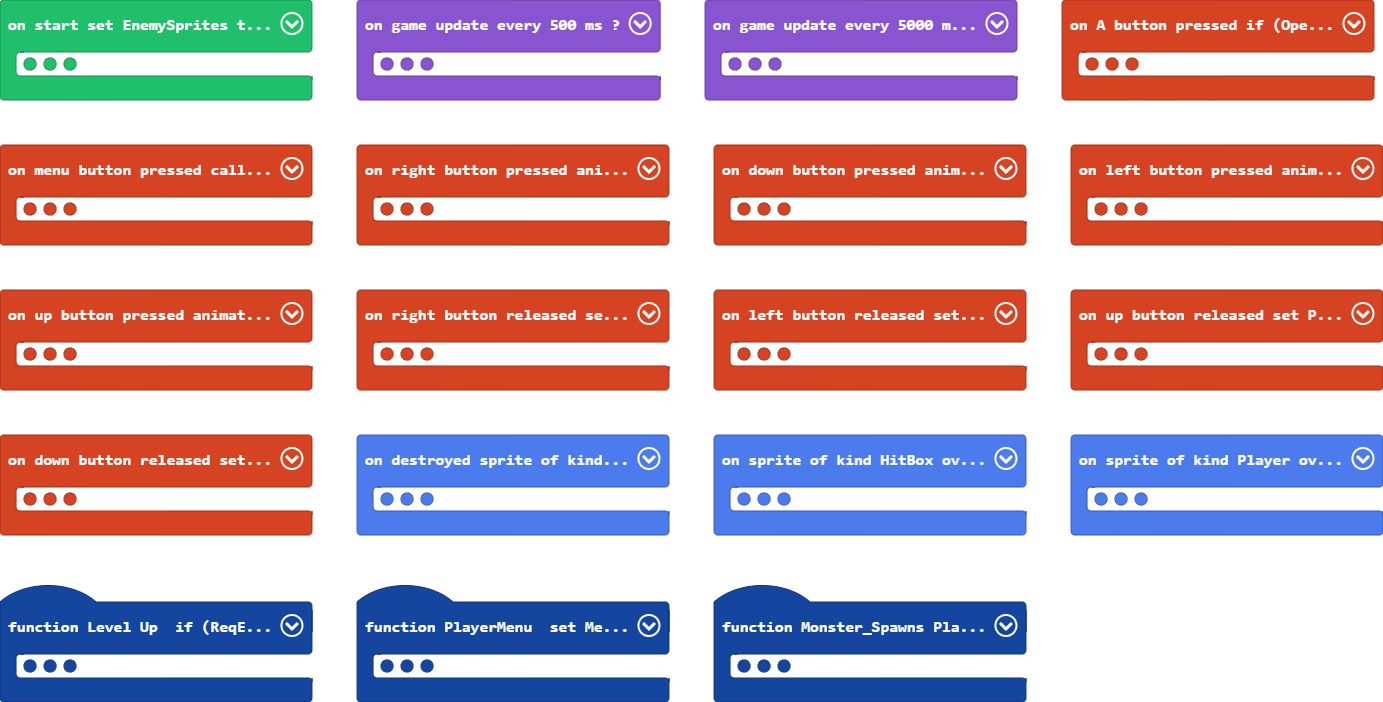
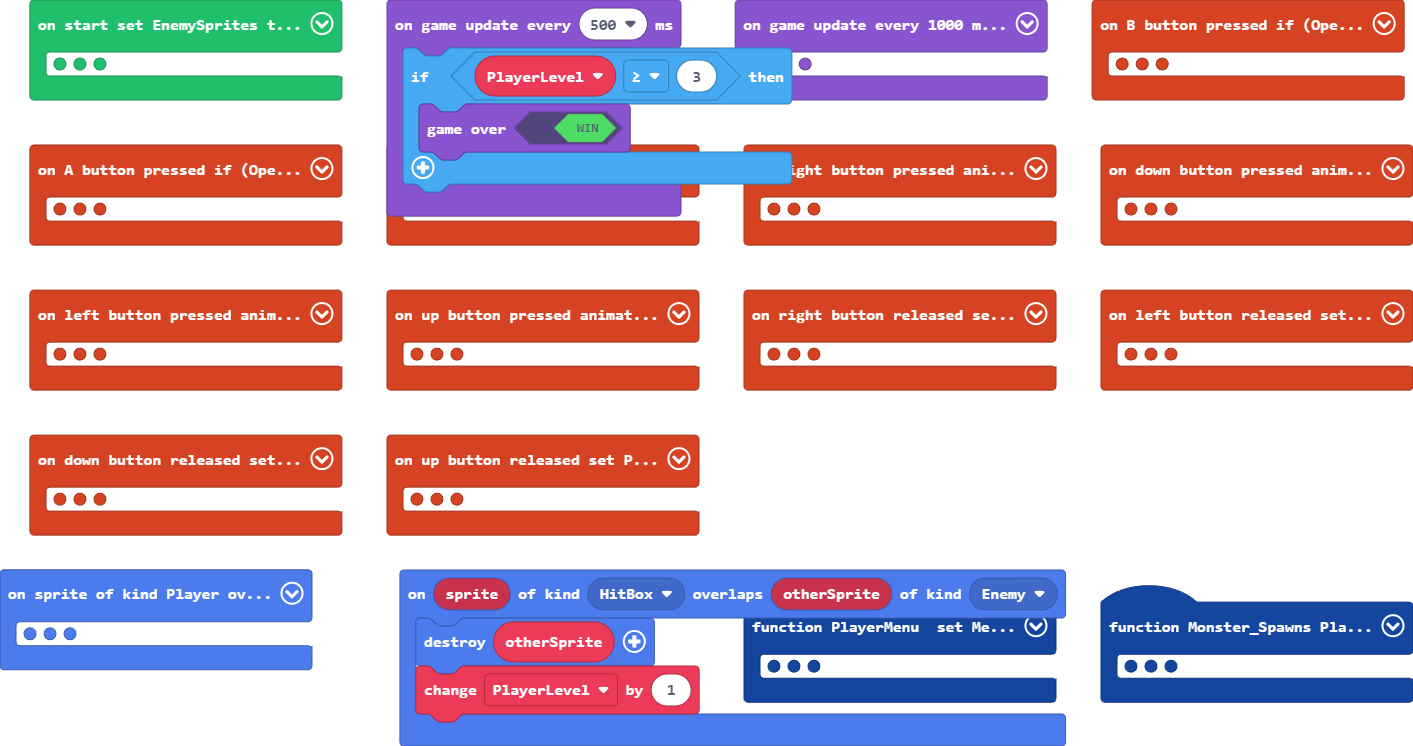
Update main.blocks, main.ts, tilemap.g.jres, tilemap.g.ts

diff --git a/main.ts b/main.ts
@@ -253,13 +253,6 @@ controller.up.onEvent(ControllerButtonEvent.Released, function () {
         . . . . . f f . . f f . . . . . 
         `)
 })
-sprites.onOverlap(SpriteKind.HitBox, SpriteKind.Enemy, function (sprite, otherSprite) {
-    sprites.destroy(otherSprite)
-    Level_Up()
-})
-sprites.onDestroyed(SpriteKind.Enemy, function (sprite) {
-    Exp += 1
-})
 controller.left.onEvent(ControllerButtonEvent.Released, function () {
     PlayerSprite.setImage(img`
         . . . . f f f f f f . . . . . . 
@@ -376,14 +369,10 @@ controller.left.onEvent(ControllerButtonEvent.Pressed, function () {
     false
     )
 })
-function Level_Up () {
-    if (ReqExp <= Exp) {
-        Exp = 0
-        ReqExp = ReqExp * 2
-        PlayerLevel += 1
-        PlayerHP.value = 103
-    }
-}
+sprites.onOverlap(SpriteKind.HitBox, SpriteKind.Enemy, function (sprite, otherSprite) {
+    sprites.destroy(otherSprite)
+    PlayerLevel += 1
+})
 controller.right.onEvent(ControllerButtonEvent.Pressed, function () {
     animation.runImageAnimation(
     PlayerSprite,
@@ -477,25 +466,25 @@ controller.right.onEvent(ControllerButtonEvent.Pressed, function () {
     false
     )
 })
+controller.B.onEvent(ControllerButtonEvent.Pressed, function () {
+    if (OpenedMenu == false) {
+        PlayerLevel += 1
+    }
+})
 // Source Code provided by teacher
 function Monster_Spawns (PlayerLevel: number) {
+    PlayerLevel = PlayerLevel
     SpawnLocation = tiles.getTilesByType(assets.tile`GrassFloor`)
-    if (PlayerLevel / 30 >= 1) {
-        for (let index = 0; index < PlayerLevel * 2; index++) {
-            Enemies = EnemySprites._pickRandom()
-            tiles.placeOnTile(Enemies, SpawnLocation.removeAt(randint(0, SpawnLocation.length - 1)))
-        }
-    } else if (PlayerLevel <= 3) {
+    if (PlayerLevel <= 2) {
         for (let index = 0; index < 3; index++) {
             Enemies = EnemySprites._pickRandom()
             tiles.placeOnTile(Enemies, SpawnLocation.removeAt(randint(0, SpawnLocation.length - 1)))
         }
     } else {
-    	
-    }
-    for (let index = 0; index < PlayerLevel; index++) {
-        Enemies = EnemySprites._pickRandom()
-        tiles.placeOnTile(Enemies, SpawnLocation.removeAt(randint(0, SpawnLocation.length - 1)))
+        for (let index = 0; index < PlayerLevel * 2; index++) {
+            Enemies = EnemySprites._pickRandom()
+            tiles.placeOnTile(Enemies, SpawnLocation.removeAt(randint(0, SpawnLocation.length - 1)))
+        }
     }
 }
 let Enemies: Sprite = null
@@ -510,7 +499,8 @@ let PlayerLevel = 0
 let ReqExp = 0
 let Exp = 0
 let EnemySprites: Sprite[] = []
-EnemySprites = [sprites.create(img`
+EnemySprites = [
+sprites.create(img`
     ........................
     ........................
     ........................
@@ -535,7 +525,8 @@ EnemySprites = [sprites.create(img`
     ........................
     ........................
     ........................
-    `, SpriteKind.Enemy), sprites.create(img`
+    `, SpriteKind.Enemy),
+sprites.create(img`
     . . f f f . . . . . . . . . . . 
     f f f c c . . . . . . . . f f f 
     f f c c . . c c . . . f c b b c 
@@ -552,7 +543,8 @@ EnemySprites = [sprites.create(img`
     . . . f f f f f f f . . . . . . 
     . . . . . . . . . . . . . . . . 
     . . . . . . . . . . . . . . . . 
-    `, SpriteKind.Enemy), sprites.create(img`
+    `, SpriteKind.Enemy),
+sprites.create(img`
     . . . . c c c c c c . . . . . . 
     . . . c 6 7 7 7 7 6 c . . . . . 
     . . c 7 7 7 7 7 7 7 7 c . . . . 
@@ -569,7 +561,71 @@ EnemySprites = [sprites.create(img`
     f 6 1 1 1 1 1 6 6 6 6 6 c f . . 
     . f 6 1 1 1 1 1 1 6 6 6 f . . . 
     . . c c c c c c c c c f . . . . 
-    `, SpriteKind.Enemy)]
+    `, SpriteKind.Enemy),
+sprites.create(img`
+    . . . . c c c c c c . . . . . . 
+    . . . c 6 7 7 7 7 6 c . . . . . 
+    . . c 7 7 7 7 7 7 7 7 c . . . . 
+    . c 6 7 7 7 7 7 7 7 7 6 c . . . 
+    . c 7 c 6 6 6 6 c 7 7 7 c . . . 
+    . f 7 6 f 6 6 f 6 7 7 7 f . . . 
+    . f 7 7 7 7 7 7 7 7 7 7 f . . . 
+    . . f 7 7 7 7 6 c 7 7 6 f c . . 
+    . . . f c c c c 7 7 6 f 7 7 c . 
+    . . c 7 2 7 7 7 6 c f 7 7 7 7 c 
+    . c 7 7 2 7 7 c f c 6 7 7 6 c c 
+    c 1 1 1 1 7 6 f c c 6 6 6 c . . 
+    f 1 1 1 1 1 6 6 c 6 6 6 6 f . . 
+    f 6 1 1 1 1 1 6 6 6 6 6 c f . . 
+    . f 6 1 1 1 1 1 1 6 6 6 f . . . 
+    . . c c c c c c c c c f . . . . 
+    `, SpriteKind.Enemy),
+sprites.create(img`
+    . . f f f . . . . . . . . . . . 
+    f f f c c . . . . . . . . f f f 
+    f f c c . . c c . . . f c b b c 
+    f f c 3 c c 3 c c f f b b b c . 
+    f f b 3 b c 3 b c f b b c c c . 
+    . c b b b b b b c f b c b c c . 
+    . c b b b b b b c b b c b b c . 
+    c b 1 b b b 1 b b b c c c b c . 
+    c b b b b b b b b c c c c c . . 
+    f b c b b b c b b b b f c . . . 
+    f b 1 f f f 1 b b b b f c c . . 
+    . f b b b b b b b b c f . . . . 
+    . . f b b b b b b c f . . . . . 
+    . . . f f f f f f f . . . . . . 
+    . . . . . . . . . . . . . . . . 
+    . . . . . . . . . . . . . . . . 
+    `, SpriteKind.Enemy),
+sprites.create(img`
+    ........................
+    ........................
+    ........................
+    ........................
+    ..........ffff..........
+    ........ff1111ff........
+    .......fb111111bf.......
+    .......f11111111f.......
+    ......fd11111111df......
+    ......fd11111111df......
+    ......fddd1111dddf......
+    ......fbdbfddfbdbf......
+    ......fcdcf11fcdcf......
+    .......fb111111bf.......
+    ......fffcdb1bdffff.....
+    ....fc111cbfbfc111cf....
+    ....f1b1b1ffff1b1b1f....
+    ....fbfbffffffbfbfbf....
+    .........ffffff.........
+    ...........fff..........
+    ........................
+    ........................
+    ........................
+    ........................
+    `, SpriteKind.Enemy)
+]
+let X = 10
 Exp = 0
 ReqExp = 10
 PlayerLevel = 1
@@ -586,8 +642,10 @@ PlayerHP.setOffsetPadding(60, 0)
 PlayerHP.setColor(6, 3)
 PlayerHP.value = 103
 game.onUpdateInterval(500, function () {
-	
+    if (PlayerLevel >= 3) {
+        game.gameOver(true)
+    }
 })
-game.onUpdateInterval(5000, function () {
+game.onUpdateInterval(1000, function () {
     Monster_Spawns(PlayerLevel)
 })

diff --git a/tilemap.g.ts b/tilemap.g.ts
@@ -147,31 +147,17 @@ namespace myTiles {
 . . . . . . . . . . . . . . . . 
 `, [myTiles.transparency16,myTiles.tile4,myTiles.tile5], TileScale.Sixteen);
             case "Overworld":
-            case "level8":return tiles.createTilemap(hex`18001800020202020202020101010101010101010101010101010101020202020202020101010101010101010101010101010101020202020202020101010101010101010101010101010101020202020202020101010101010101010101010101010101020202020202020101010101010101010101010101010101020202020202020101010101010101010101010101010101020202020202020101010101010101010101010101010101010101010101010101010101010101010101010101010101010101010101010101010101010101010101010101010101010101010101010101010101010101010101010101010101010101010101010101010101010101010101010101010101010101010101010101010101010101010101010101010101010101010101010101010101010101010101010101010101010101010101010101010101010101010101010101010101010101010101010101010101010101010101010101010101010101010101010101010101010101010101010101010101010101010101010101010101010101010101010101010101010101010101010101010101010101010101010101010101010101010101010101010101010101010101010101010101010101010101010101010101010101010101010101010101010101010101010101010101010101010101010101010101010101010101010101010101010101010101010101010101010101010101010101010101010101010101010101010101010101010101010101010101010101010101010101010101`, img`
-........................
-........................
-........................
-........................
-........................
-........................
-........................
-........................
-........................
-........................
-........................
-........................
-........................
-........................
-........................
-........................
-........................
-........................
-........................
-........................
-........................
-........................
-........................
-........................
[1 lines of base64/hex data omitted]
+. . . . . . . . . . 
+. . . . . . . . . . 
+. . . . . . . . . . 
+. . . . . . . . . . 
+. . . . . . . . . . 
+. . . . . . . . . . 
+. . . . . . . . . . 
+. . . . . . . . . . 
+. . . . . . . . . . 
+. . . . . . . . . . 
 `, [myTiles.transparency16,myTiles.tile3,myTiles.tile1], TileScale.Sixteen);
         }
         return null;
